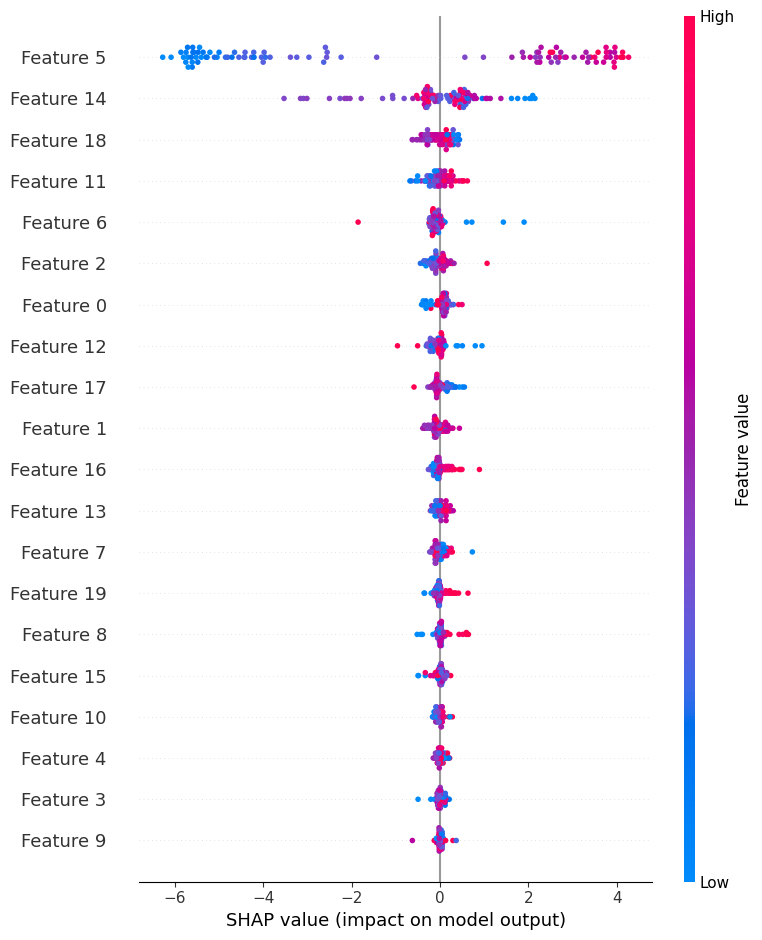
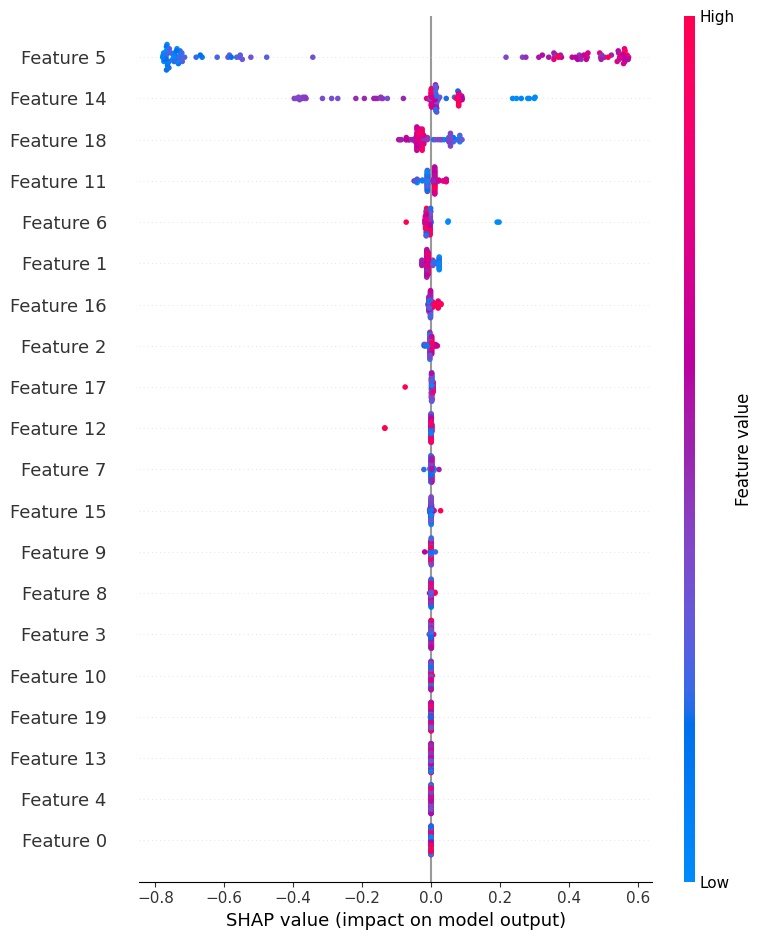
Fix fastapi server

diff --git a/fastapi/api.py b/fastapi/api.py
@@ -4,46 +4,42 @@ from pydantic import BaseModel, Field
 from typing import List, Optional
 import asyncio
 import time
-import mlflow
-import mlflow.sklearn
+import mlflow.pyfunc
 import pandas as pd
 
 app = FastAPI(
     title="Machine Learning API",
     description="An API to register ML models, make predictions, and upload data. Additional endpoints demonstrate Pydantic models, dependency injection, and async support.",
-    version="1.0.0",
+    version="1.0.0"
 )
-
-mlflow.set_tracking_uri("http://localhost:5000")
-
-# Load the model from MLflow
-model_uri = "models:/gradient_boosting_model/1"  # Adjust the model URI as needed
-model = mlflow.sklearn.load_model(model_uri)
-
-
-# Define the input data model
-class PredictionInput(BaseModel):
-    features: List[float]
-
-
-# Define the output data model
-class PredictionOutput(BaseModel):
-    prediction: float
-
-@app.post("/predict", response_model=PredictionOutput)
-async def predict(input_data: PredictionInput):
-    try:
-        input_df = pd.DataFrame([input_data.features])
-        prediction = model.predict(input_df)[0]
-        return {"prediction": prediction}
-    except Exception as e:
-        raise HTTPException(status_code=500, detail=str(e))
-
 
 # ------------------------------
 # Pydantic Model Definitions
 # ------------------------------
+# MLflow Model Registry Details
+MODEL_NAME = "GradientBoostingClassifier"  # Your registered model name
+MODEL_STAGE = "1"  # Can be "Staging", "Production", or "None"
 
+# Load the model from MLflow Model Registry
+model_uri = f"models:/{MODEL_NAME}/{MODEL_STAGE}"
+model = mlflow.pyfunc.load_model(model_uri)
+
+# Define request schema
+class ModelInput(BaseModel):
+    features: list  # Expecting a list of feature values
+
+@app.post("/predict")
+def predict(input_data: ModelInput):
+    try:
+        # Convert input to DataFrame (MLflow expects DataFrame input)
+        input_df = pd.DataFrame([input_data.features])
+
+        # Make prediction
+        prediction = model.predict(input_df)
+
+        return {"prediction": prediction.tolist()}
+    except Exception as e:
+        return {"error": str(e)}
 
 # Machine Learning Model for CRUD endpoints
 class MLModel(BaseModel):
@@ -53,14 +49,12 @@ class MLModel(BaseModel):
     description: Optional[str] = None
     trained: bool = False
 
-
 # Request body example with a basic Item model.
 class Item(BaseModel):
     name: str
     description: Optional[str] = None
     price: float
     tax: Optional[float] = None
-
 
 # Advanced validation example for a User model.
 class User(BaseModel):
@@ -70,7 +64,6 @@ class User(BaseModel):
     age: int = Field(gt=0, lt=150)
     is_active: bool = Field(default=True)
 
-
 # ------------------------------
 # In-Memory "Database" & Dependency
 # ------------------------------
@@ -78,21 +71,17 @@ class User(BaseModel):
 # In-memory store for ML models.
 model_db: List[MLModel] = []
 
-
 async def get_model_db() -> List[MLModel]:
     """Dependency that provides the current model database."""
     return model_db
-
 
 # Dependency function to extract common query parameters.
 def common_parameters(q: Optional[str] = None, skip: int = 0, limit: int = 100):
     return {"q": q, "skip": skip, "limit": limit}
 
-
 # ------------------------------
 # Endpoints: ML Models CRUD
 # ------------------------------
-
 
 @app.get("/", summary="API Root", tags=["Root"])
 async def root():
@@ -101,26 +90,13 @@ async def root():
     """
     return {"message": "Welcome to the Machine Learning API"}
 
-
 # List all registered ML models.
-@app.get(
-    "/models",
-    response_model=List[MLModel],
-    summary="List all ML models",
-    tags=["Models"],
-)
+@app.get("/models", response_model=List[MLModel], summary="List all ML models", tags=["Models"])
 async def list_models(db: List[MLModel] = Depends(get_model_db)):
     return db
 
-
 # Register a new ML model.
-@app.post(
-    "/models",
-    response_model=MLModel,
-    status_code=201,
-    summary="Register a new ML model",
-    tags=["Models"],
-)
+@app.post("/models", response_model=MLModel, status_code=201, summary="Register a new ML model", tags=["Models"])
 async def register_model(new_model: MLModel, db: List[MLModel] = Depends(get_model_db)):
     # Check if a model with the same ID already exists.
     if any(model.id == new_model.id for model in db):
@@ -128,37 +104,22 @@ async def register_model(new_model: MLModel, db: List[MLModel] = Depends(get_mod
     db.append(new_model)
     return new_model
 
-
 # Get details about a specific ML model by ID.
-@app.get(
-    "/models/{model_id}",
-    response_model=MLModel,
-    summary="Get ML model details",
-    tags=["Models"],
-)
+@app.get("/models/{model_id}", response_model=MLModel, summary="Get ML model details", tags=["Models"])
 async def get_model(model_id: int, db: List[MLModel] = Depends(get_model_db)):
     for model in db:
         if model.id == model_id:
             return model
     raise HTTPException(status_code=404, detail="Model not found")
 
-
 # Update an existing ML model.
-@app.put(
-    "/models/{model_id}",
-    response_model=MLModel,
-    summary="Update an ML model",
-    tags=["Models"],
-)
-async def update_model(
-    model_id: int, updated_model: MLModel, db: List[MLModel] = Depends(get_model_db)
-):
+@app.put("/models/{model_id}", response_model=MLModel, summary="Update an ML model", tags=["Models"])
+async def update_model(model_id: int, updated_model: MLModel, db: List[MLModel] = Depends(get_model_db)):
     for index, model in enumerate(db):
         if model.id == model_id:
             db[index] = updated_model
             return updated_model
     raise HTTPException(status_code=404, detail="Model not found")
-
 
 # Delete an ML model.
 @app.delete("/models/{model_id}", summary="Delete an ML model", tags=["Models"])
@@ -169,11 +130,9 @@ async def delete_model(model_id: int, db: List[MLModel] = Depends(get_model_db))
             return {"message": "Model deleted successfully"}
     raise HTTPException(status_code=404, detail="Model not found")
 
-
 # ------------------------------
 # Endpoints: Additional Examples
 # ------------------------------
-
 
 # Dummy prediction endpoint.
 @app.get("/predictions", summary="Make a prediction", tags=["Predictions"])
@@ -183,21 +142,14 @@ async def get_prediction(task_id: int, input_feature: Optional[float] = None):
     - **task_id**: A unique ID for the prediction task.
     - **input_feature**: A numerical input feature; if provided, the prediction is input_feature * 2.
     """
-
+    
     if input_feature is not None:
         prediction = input_feature * 2
-        return {
-            "task_id": task_id,
-            "input_feature": input_feature,
-            "prediction": prediction,
-        }
+        return {"task_id": task_id, "input_feature": input_feature, "prediction": prediction}
     return {"task_id": task_id, "message": "No input feature provided"}
 
-
 # Endpoint to upload training data as raw bytes.
-@app.post(
-    "/upload_training_data", summary="Upload training data", tags=["File Uploads"]
-)
+@app.post("/upload_training_data", summary="Upload training data", tags=["File Uploads"])
 async def upload_training_data(file: bytes = File(...)):
     """
     Upload training data as raw bytes.
@@ -206,20 +158,14 @@ async def upload_training_data(file: bytes = File(...)):
     file_size = len(file)
     return {"message": "Training data uploaded successfully", "file_size": file_size}
 
-
 # Endpoint to upload a pre-trained model file.
-@app.post(
-    "/upload_model_file",
-    summary="Upload a pre-trained model file",
-    tags=["File Uploads"],
-)
+@app.post("/upload_model_file", summary="Upload a pre-trained model file", tags=["File Uploads"])
 async def upload_model_file(file: UploadFile = File(...)):
     """
     Upload a file (e.g., a pre-trained model binary).
     Returns the filename and content type.
     """
     return {"filename": file.filename, "content_type": file.content_type}
-
 
 # Endpoint demonstrating a request body using the Item model.
 @app.post("/items/", summary="Create an item", tags=["Items"])
@@ -234,7 +180,6 @@ async def create_item(item: Item):
         item_dict.update({"total": total})
     return item_dict
 
-
 # Endpoint demonstrating advanced validation using the User model.
 @app.post("/users/", summary="Create a user", tags=["Users"])
 async def create_user(user: User):
@@ -242,7 +187,6 @@ async def create_user(user: User):
     Create a user with advanced field validation.
     """
     return user
-
 
 # Endpoint demonstrating dependency injection with common query parameters.
 @app.get("/items/commons", summary="Read items with common parameters", tags=["Items"])
@@ -252,11 +196,9 @@ async def read_items(commons: dict = Depends(common_parameters)):
     """
     return commons
 
-
 # ------------------------------
 # Endpoints: Async and Sync Examples
 # ------------------------------
-
 
 @app.get("/async-example", summary="Async example", tags=["Examples"])
 async def async_endpoint():
@@ -265,7 +207,6 @@ async def async_endpoint():
     """
     await asyncio.sleep(1)
     return {"message": "This is an async endpoint"}
-
 
 @app.get("/sync-example", summary="Sync example", tags=["Examples"])
 def sync_endpoint():

diff --git a/mlflow/mlflow_demo.py b/mlflow/mlflow_demo.py
@@ -72,7 +72,7 @@ with mlflow.start_run():
 
     # Log the trained model with inferred input signature
     signature = infer_signature(X_train, best_model.predict(X_train))
-    mlflow.sklearn.log_model(best_model, "gradient_boosting_model", signature=signature)
+    model_info = mlflow.sklearn.log_model(best_model, "gradient_boosting_model", signature=signature)
 
     # SHAP feature importance analysis
     explainer = shap.Explainer(best_model, X_train)
@@ -85,6 +85,11 @@ with mlflow.start_run():
     plt.savefig(shap_plot_path, bbox_inches="tight")
     plt.close()
     mlflow.log_artifact(shap_plot_path)
+
+    # **Register the model in the MLflow Model Registry**
+    model_uri = model_info.model_uri  # Get the logged model's URI
+    registered_model = mlflow.register_model(model_uri, "GradientBoostingClassifier")
+
 
 logger.info("Best Parameters: {}", grid_search.best_params_)
 logger.info("Evaluation Metrics: {}", metrics)

diff --git a/test.py b/test.py
@@ -1,10 +1,2 @@
-import mlflow.sklearn
-
-# Set MLflow tracking server (ensure this matches your MLflow server address)
-mlflow.set_tracking_uri("http://localhost:5000")
-
-# Load the registered model
-model_uri = "models:/gradient_boosting_model/1"  # Use "latest" if you always want the newest version
-model = mlflow.sklearn.load_model(model_uri)
-
-print("Model loaded successfully!")
+import mlflow
+print(mlflow.get_tracking_uri())
